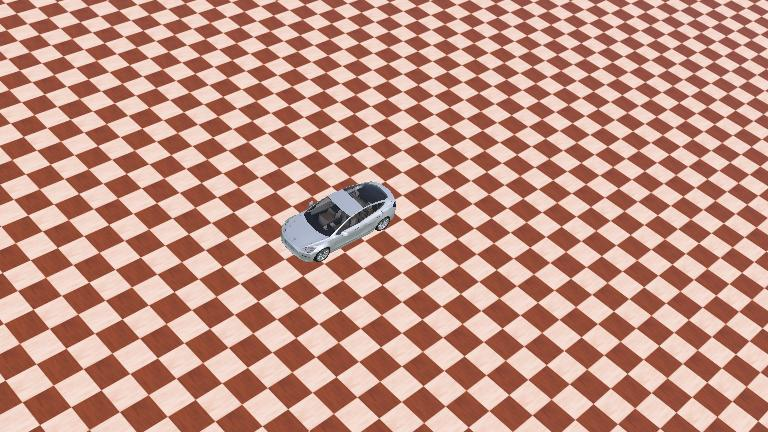
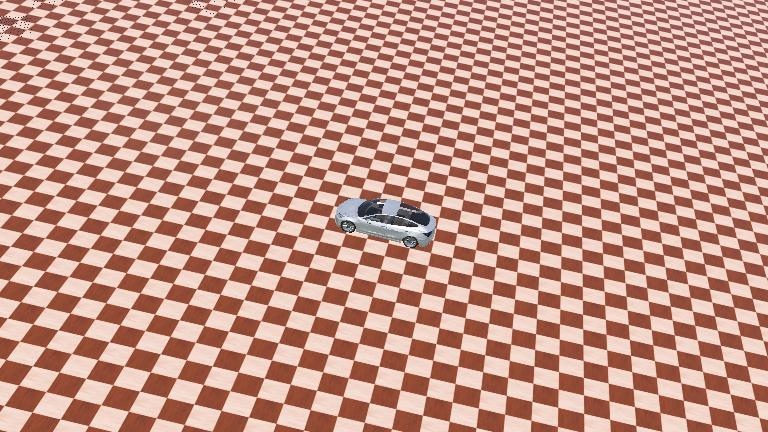
feat: make main form

diff --git a/working_space/controllers/TeslaModel3/TeslaModel3.py b/working_space/controllers/TeslaModel3/TeslaModel3.py
@@ -1,175 +1,98 @@
-# 2024.11.17 Capdi
-import numpy as np
+""" Debug """
+from debug.grid_plot import convert_to_grid_map, grid_plot
+
+""" Webots """
 from controller import Supervisor   # 차후에 webots on/off할 때 필요
 from vehicle import Driver
+
+""" Standard """
+import numpy as np
 import matplotlib.pyplot as plt
+
+""" Library """
+from lib.dubins_planner import DubinsPlanner
+from lib.tesla_state import IdealState, TeslaState, History
+from lib.rrt_star_planner import RRTStarPlanner
+from lib.mpc_tracker import MPCTracker
+from lib.path_handler import PathHanlder
+# from lib.rrt_planner import Node  #TODO
+
+""" Util """
+from util.operator import angle_mod, smooth_yaw
+from util.map_maker import generate_grid_map
+from util.llm import request_to_LLM
+from lib.convention import X, Y, YAW
+
 # from get_information import parse_proto, get_value
 
-from lib.tesla_state import IdealState, TeslaState, History
-# from lib.rrt_star_planner import RRTStarPlanner
-from lib.mpc_tracker import MPCTracker
-from utils.operator import angle_mod, smooth_yaw
-# from lib.rrt_planner import Node  #TODO
-from utils.debug import get_my_dubins_course
-from lib.convention import Waypoint, X, Y, YAW
-
-def show_history(cx, cy, tesla_history):
-    plt.close("all")
-    plt.subplots()
-    plt.plot(cx, cy, "-r", label="Reference Path")
-    plt.plot(tesla_history.x, tesla_history.y, "-b", label="Tracking Path")
+def webots_sim(driver):    # <Main 문>
+    plt.figure(figsize=(12, 12))
+    plt.title("Path Planning and Tracking", fontsize=16)
+    plt.xlabel("X [m]", fontsize=12)
+    plt.ylabel("Y [m]", fontsize=12)
     plt.grid(True)
-    plt.axis("equal")
-    plt.xlabel("x[m]")
-    plt.ylabel("y[m]")
-    plt.legend()
-
-
-    plt.subplots()
-    plt.plot(tesla_history.t, tesla_history.v, "-r", label="speed")
-    plt.grid(True)
-    plt.xlabel("Time [s]")
-    plt.ylabel("Speed [m/s]")
-    plt.show()
-
-
-
-def main(driver, collision_point_list):    # <Main 문>
+    plt.axis("equal")  # 축 비율을 동일하게
+    # file = 'debug/[Map]_03_height_C_H.txt'
+    # grid_plot(file)
     ###################################################
-    DT = driver.getBasicTimeStep() / 1000 # [s]
-    DL = 1.0  # course tick
+    dt = driver.getBasicTimeStep() / 1000 # [s]
+    
+    grid_map = np.zeros((700, 700))
+    # grid_map = generate_grid_map("data/map.json")
+    # grid_map = convert_to_grid_map("data/[Map]_03_height_C_H.txt")
+
+    # points_collision, points_waypoint, points_path = None, None, None
     ###################################################
+
+    tesla_state = TeslaState(driver, dt)
+    tesla_state.update()
 
     """ Consturctor """
+    points_collision = request_to_LLM()
+    print(points_collision)
+    for cur_collision in points_collision:
+        start = np.array([tesla_state.x, tesla_state.y])
+        goal = np.array([cur_collision[X], cur_collision[Y]])
+        plt.plot(start[X], start[Y], "bo", markersize=10, label="Start")
+        plt.plot(goal[X], goal[Y], "yo", markersize=10, label="LLM(Collision)")
 
-    # TARGET_SPEED = 108 / 3.6  # [m/s] target speed
-    TARGET_SPEED = 36 / 3.6  # [m/s] target speed
+        print(f"Start: {start}, Goal: {goal}")
+        """ RRT* Path Planning """
+        rrt_star = RRTStarPlanner(grid_map, start, goal)
+        points_waypoint: np.ndarray = rrt_star.plan()
+        if points_waypoint is None:
+            print("[INFO] exit")
+            return False
 
-    tesla_history = History()
-    tesla_state = TeslaState(driver, DT)
-    # ideal_history = History()
-    # ideal_state = IdealState()
-    mpc_tracker = MPCTracker(DT)
+        print(f"points_waypoint: {points_waypoint}")
+        print(f"points_waypoint: {points_waypoint.shape}")
 
-    """ LLM  """
-    #LLM에게 요청(info.txt, current_pos)
+        plt.plot(points_waypoint[1:-2, X], points_waypoint[1:-2, Y], "ro", markersize=10, label="RRT*(Waypoint)")
+        """ Dubins Path Planning """
 
+        print(f"points_waypoint: {points_waypoint}")
 
-    # start = Waypoint(tesla_state.x, tesla_state.y, tesla_state.yaw)
-    # goal = [collision_point_list[-1].x, collision_point_list[-1].y]
+        path_handler = PathHanlder(points_waypoint, DubinsPlanner)
+        points_path: np.ndarray = path_handler.calculate()
+        print(f"points_path: {points_path}")
+        print(f"points_path: {points_path.shape}")
+        plt.plot(points_path[1:, X], points_path[1:, Y], "cx", markersize=10, label="Dubins(Path)")
 
-
-    # initial_state = IdealState(start.x, start.y, start.yaw, 0.0)
-
-    initial_position = tesla_state.get_position()
-    path = np.vstack([start, collision_point_list])
-
-    # tesla_history.append(tesla_state)
-
-    # print("\nSpeed : ", driver.getCurrentSpeed())              # 속력 (m/s)
-
-    MAX_TIME = 500.0  # max simulation time
-    # stopwatch = 0.0
-    for collision_point in collision_point_list:
-        tesla_state.update()
-        # start = Waypoint(tesla_state.x, tesla_state.y, tesla_state.yaw)
-        start = np.array([initial_position[X], initial_position[Y], initial_position[YAW]])
-
-        # path = np.vstack([start, collision_point])
-
-        cx, cy, cyaw = get_my_dubins_course(path)
-        initial_state = IdealState(DT, x=cx[0], y=cy[0], yaw=cyaw[0], v=0.0)
-        target_index, _ = mpc_tracker.calculate_nearest_index(initial_state, cx, cy, cyaw, 0)
-        sp = mpc_tracker.calculate_speed_profile(cx, cy, cyaw, TARGET_SPEED)
-
-        # print('-'*50)
-        # print('cx : ', cx)
-        # print('cy : ', cy)
-        # print('cyaw : ', cyaw)
-        # print('sp : ', sp)
-        # print("Initial State : ", initial_state)
-        # print("Target Index : ", target_index)
-        # print('-'*50)
-        
-        goal = [cx[-1], cy[-1]]
-        odelta, oa = None, None
-
-        cyaw = smooth_yaw(cyaw)
-        while MAX_TIME >= driver.getTime():
-            x_ref, target_index, d_ref = mpc_tracker.calculate_ref_trajectory(
-                            tesla_state, cx, cy, cyaw, sp, DL, target_index)
-            x_cur = [tesla_state.x, tesla_state.y , tesla_state.v, tesla_state.yaw]
-            oa, odelta, ox, oy, oyaw, ov = mpc_tracker.iterative_linear_control(x_ref, x_cur, d_ref, oa, odelta)
-            # x_cur_ideal = [ideal_state.x, ideal_state.x, ideal_state.y, ideal_state.v, ideal_state.yaw], 
-            # oa, odelta, ox, oy, oyaw, ov = mpc_tracker.control(x_ref, x_cur_ideal, d_ref, oa, odelta)
-            d_index, a_index = 0.0, 0.0
-            if odelta is not None:
-                d_index, a_index = odelta[0], oa[0]
-                tesla_state.update(d_index)
-                # ideal_state.update(a_index, d_index)
-            # stopwatch += DT
-            tesla_history.append(driver.getTime(), tesla_state)
-            # ideal_history.append(ideal_state)
-
-            if mpc_tracker.check_goal(goal, target_index, len(cx)):
-                return tesla_history, True
-    return tesla_history, False
-
-def check_time():
-    old_at = driver.getTime()
-    while driver.step() != -1:  
-        now = driver.getTime()
-        print(now - old_at) # 0.008
-        old_at = driver.getTime()
-
-def show_history(collision_point_list, tesla_history):
-    start = Waypoint(tesla_history.x_list[0], tesla_history.y_list[0], tesla_history.yaw_list[0])
-    path = np.vstack([start, collision_point_list])
-    cx, cy, cyaw = get_my_dubins_course(path)
-    plt.close("all")
-    plt.subplots()
-    plt.plot(cx, cy, "-r", label="Reference Path")
-    plt.plot(tesla_history.x, tesla_history.y, "-b", label="Tracking Path")
-    plt.grid(True)
-    plt.axis("equal")
-    plt.xlabel("x[m]")
-    plt.ylabel("y[m]")
-    plt.legend()
-
-    plt.subplots()
-    plt.plot(tesla_history.t, tesla_history.v, "-r", label="speed")
-    plt.grid(True)
-    plt.xlabel("Time [s]")
-    plt.ylabel("Speed [m/s]")
+        """ MPC Tracking """
+        mpc = MPCTracker(points_path, dt, tesla_state)
+        mpc.track()
+    plt.legend(loc="upper right", fontsize=10)
+    plt.tight_layout()  # 플롯 레이아웃 자동 조정
     plt.show()
 
-def request_collision_point_list_to_LLM():
-    return [ np.array([30.0, 5.0, np.deg2rad(15)]),
-             np.array([60.0, -3.0, np.deg2rad(-15)]),
-             np.array([90.0, 8.0, np.deg2rad(20)]),
-             np.array([120.0, -10.0, np.deg2rad(-20)]),
-             np.array([150.0, 12.0, np.deg2rad(25)]),
-             np.array([180.0, -15.0, np.deg2rad(-30)]),
-             np.array([210.0, 10.0, np.deg2rad(10)]),
-             np.array([240.0, -5.0, np.deg2rad(-10)]),
-             np.array([270.0, 3.0, np.deg2rad(5)]),
-             np.array([300.0, -8.0, np.deg2rad(-5)]),
-             np.array([330.0, 15.0, np.deg2rad(30)]),
-             np.array([360.0, -20.0, np.deg2rad(-25)]),
-             np.array([390.0, 18.0, np.deg2rad(20)]),
-             np.array([420.0, -12.0, np.deg2rad(-20)]),
-             np.array([450.0, 10.0, np.deg2rad(15)]),
-             np.array([480.0, -7.0, np.deg2rad(-10)]),
-             np.array([510.0, 5.0, np.deg2rad(5)]),
-             np.array([540.0, -3.0, np.deg2rad(-5)]),
-             np.array([570.0, 2.0, np.deg2rad(3)]),
-             np.array([600.0, 0.0, np.deg2rad(0)]) ]
+
 
 if __name__ == '__main__':
     driver = Driver()   # 차량, 건물 및 object의 객체
-    simulation_flag = True 
-    collision_point_list = request_collision_point_list_to_LLM()
-    while driver.step() != -1 and simulation_flag == True:  # iter 사실상 1번
-        tesla_history, simulation_flag = main(driver, collision_point_list)
-        show_history(collision_point_list, tesla_history)
+    while driver.step() != -1 and webots_sim(driver):
+        pass
+    #
+
+
+
 